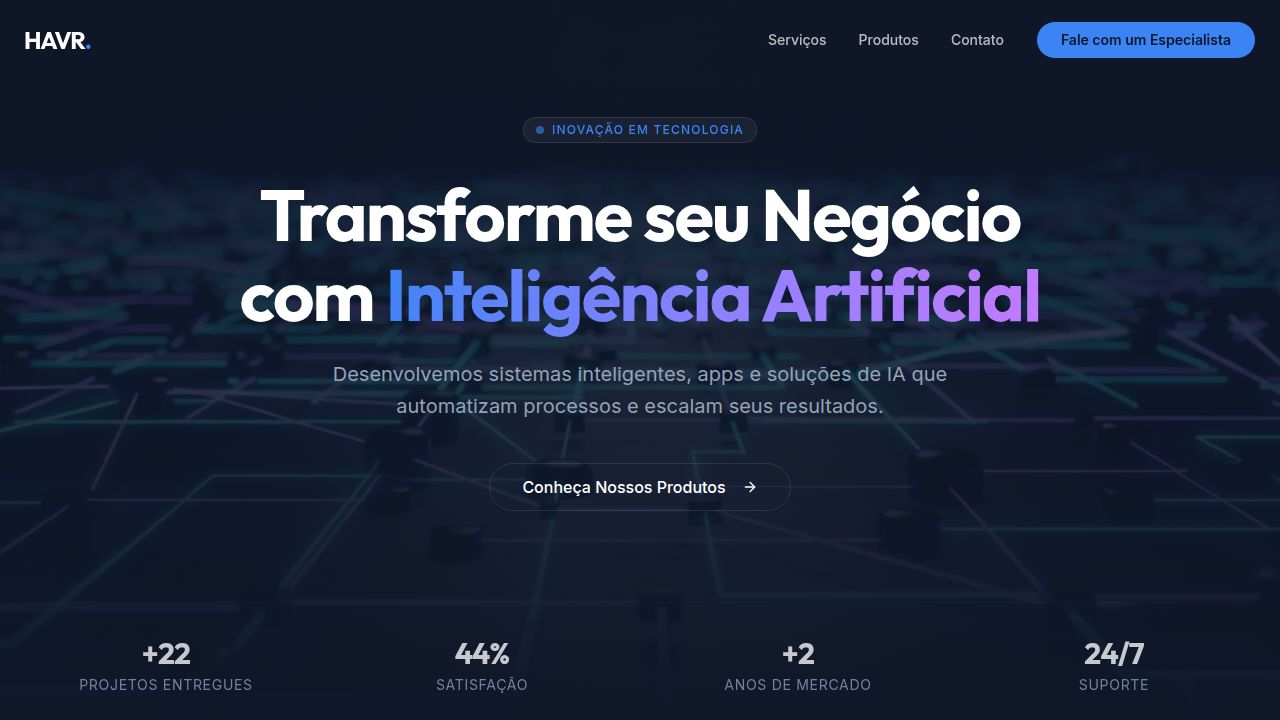
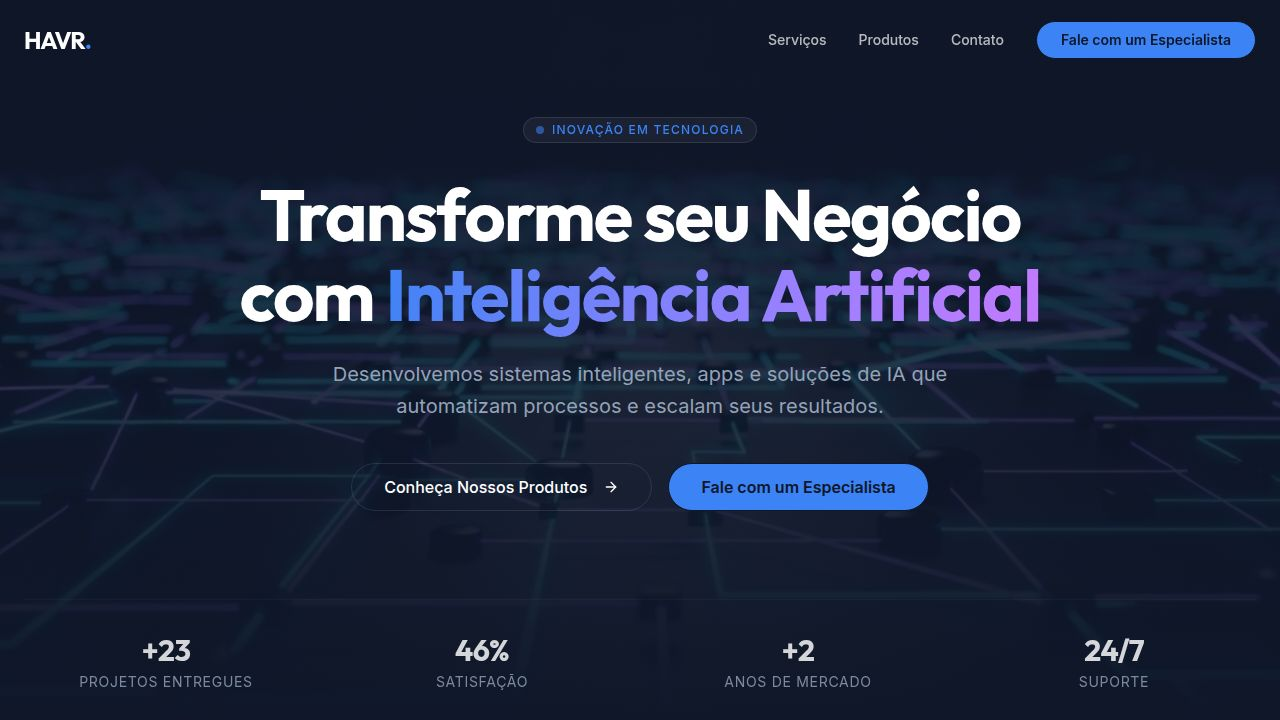
Update contact information and button links to WhatsApp
Update all contact numbers and links to the new WhatsApp number +5517956930180 across the application, including the footer, contact form, hero section, navbar, and products section.

Replit-Commit-Author: Agent
Replit-Commit-Session-Id: c2a27b42-f925-4713-982d-a7051b9e1a30
Replit-Commit-Checkpoint-Type: full_checkpoint
Replit-Commit-Event-Id: e55a6d9b-d7bb-4e2c-a1db-43db7a652d53
Replit-Commit-Screenshot-Url: https://storage.googleapis.com/screenshot-production-us-central1/4733130e-24c4-40ad-b740-d0428fedd31c/c2a27b42-f925-4713-982d-a7051b9e1a30/tYZLoxW
Replit-Helium-Checkpoint-Created: true

diff --git a/client/src/components/contact.tsx b/client/src/components/contact.tsx
@@ -18,9 +18,9 @@ export function Contact() {
                 <Mail className="w-5 h-5 mr-4 text-primary" />
                 contato@havrtecnologia.com
               </a>
-              <a href="https://wa.me/5517992331492" className="flex items-center text-white/80 hover:text-primary transition-colors">
+              <a href="https://wa.me/5517956930180" className="flex items-center text-white/80 hover:text-primary transition-colors">
                 <Phone className="w-5 h-5 mr-4 text-primary" />
-                +55 17 99233-1492
+                +55 17 95693-0180
               </a>
               <div className="flex items-center gap-4 mt-8">
                 <Button size="icon" variant="outline" className="rounded-full border-white/10 hover:bg-white/5 hover:text-primary text-white">
@@ -56,7 +56,13 @@ export function Contact() {
                 <label className="text-sm font-medium text-white">Mensagem</label>
                 <textarea className="w-full bg-background/50 border border-white/10 rounded-lg px-4 py-3 text-white focus:outline-none focus:border-primary/50 transition-colors min-h-[120px]" placeholder="Como podemos ajudar?" />
               </div>
-              <Button className="w-full bg-primary text-primary-foreground font-bold h-12 rounded-lg hover:bg-primary/90">
+              <Button 
+                className="w-full bg-primary text-primary-foreground font-bold h-12 rounded-lg hover:bg-primary/90"
+                onClick={(e) => {
+                  e.preventDefault();
+                  window.open("https://wa.me/5517956930180", "_blank");
+                }}
+              >
                 Enviar Mensagem
               </Button>
             </form>

diff --git a/client/src/components/navbar.tsx b/client/src/components/navbar.tsx
@@ -45,7 +45,11 @@ export function Navbar() {
               {link.name}
             </a>
           ))}
-          <Button variant="default" className="bg-primary text-primary-foreground hover:bg-primary/90 font-semibold rounded-full px-6">
+          <Button 
+            variant="default" 
+            className="bg-primary text-primary-foreground hover:bg-primary/90 font-semibold rounded-full px-6"
+            onClick={() => window.open("https://wa.me/5517956930180", "_blank")}
+          >
             Fale com um Especialista
           </Button>
         </div>
@@ -79,7 +83,13 @@ export function Navbar() {
                   {link.name}
                 </a>
               ))}
-              <Button className="w-full bg-primary text-primary-foreground font-bold rounded-full">
+              <Button 
+                className="w-full bg-primary text-primary-foreground font-bold rounded-full"
+                onClick={() => {
+                  setIsOpen(false);
+                  window.open("https://wa.me/5517956930180", "_blank");
+                }}
+              >
                 Solicite um Orçamento
               </Button>
             </div>

diff --git a/client/src/components/hero.tsx b/client/src/components/hero.tsx
@@ -82,9 +82,21 @@ export function Hero() {
           </p>
 
           <div className="flex flex-col sm:flex-row items-center justify-center gap-4">
-            <Button size="lg" variant="outline" className="border-white/10 text-white hover:bg-white/5 rounded-full px-8 h-12 text-base group">
+            <Button 
+              size="lg" 
+              variant="outline" 
+              className="border-white/10 text-white hover:bg-white/5 rounded-full px-8 h-12 text-base group"
+              onClick={() => document.getElementById('products')?.scrollIntoView({ behavior: 'smooth' })}
+            >
               Conheça Nossos Produtos
               <ArrowRight className="ml-2 w-4 h-4 group-hover:translate-x-1 transition-transform" />
+            </Button>
+            <Button 
+              size="lg" 
+              className="bg-primary text-primary-foreground hover:bg-primary/90 rounded-full px-8 h-12 text-base font-semibold"
+              onClick={() => window.open("https://wa.me/5517956930180", "_blank")}
+            >
+              Fale com um Especialista
             </Button>
           </div>
         </motion.div>

diff --git a/client/src/components/products.tsx b/client/src/components/products.tsx
@@ -129,7 +129,11 @@ export function Products() {
                     ))}
                   </ul>
 
-                  <Button variant="ghost" className="text-white hover:text-primary hover:bg-white/5 font-semibold group border border-white/5 px-4 h-9 text-xs">
+                  <Button 
+                    variant="ghost" 
+                    className="text-white hover:text-primary hover:bg-white/5 font-semibold group border border-white/5 px-4 h-9 text-xs"
+                    onClick={() => window.open("https://wa.me/5517956930180", "_blank")}
+                  >
                     Saiba mais <ArrowRight className="w-3 h-3 ml-2 group-hover:translate-x-1 transition-transform" />
                   </Button>
                 </div>
